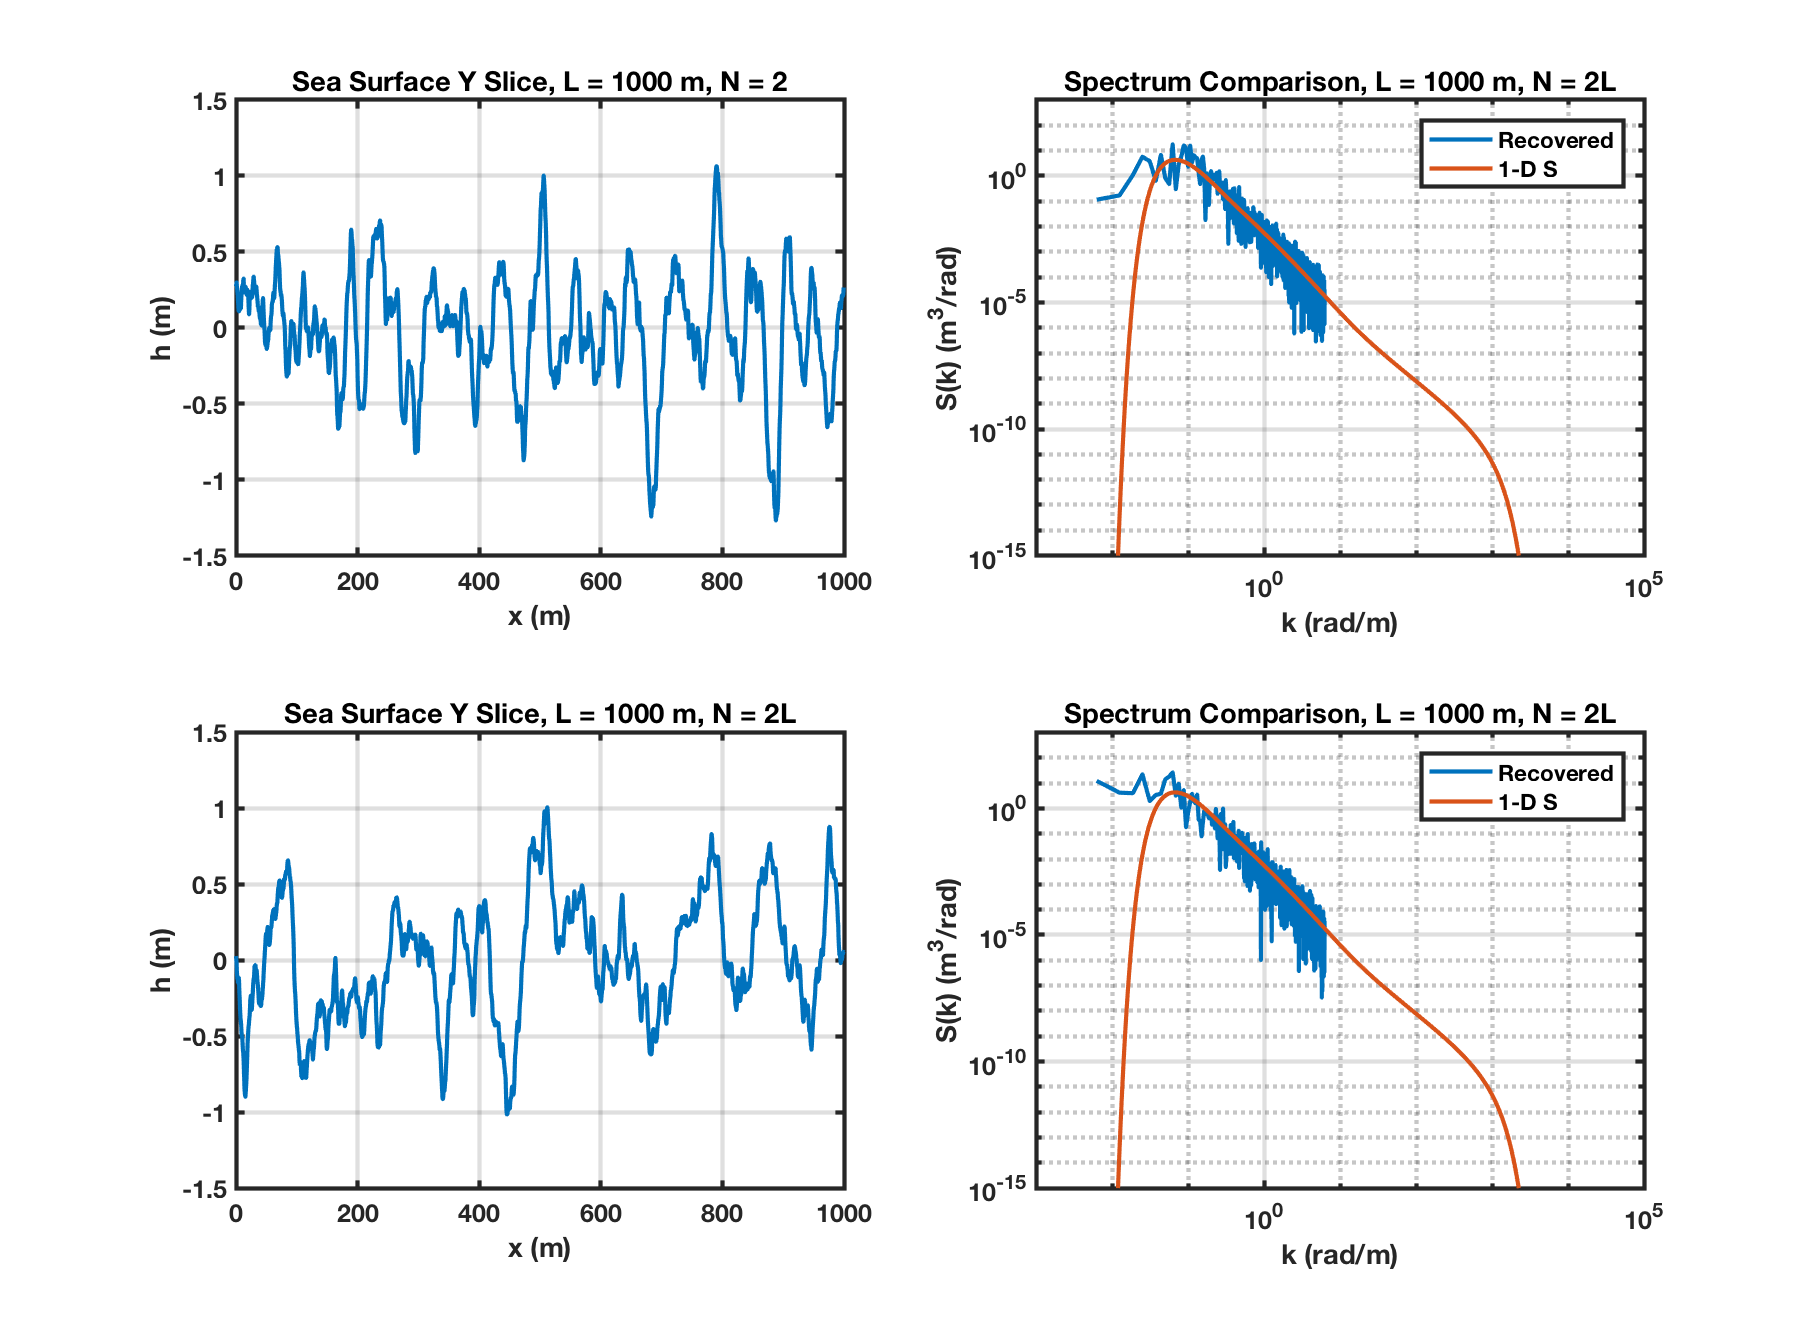
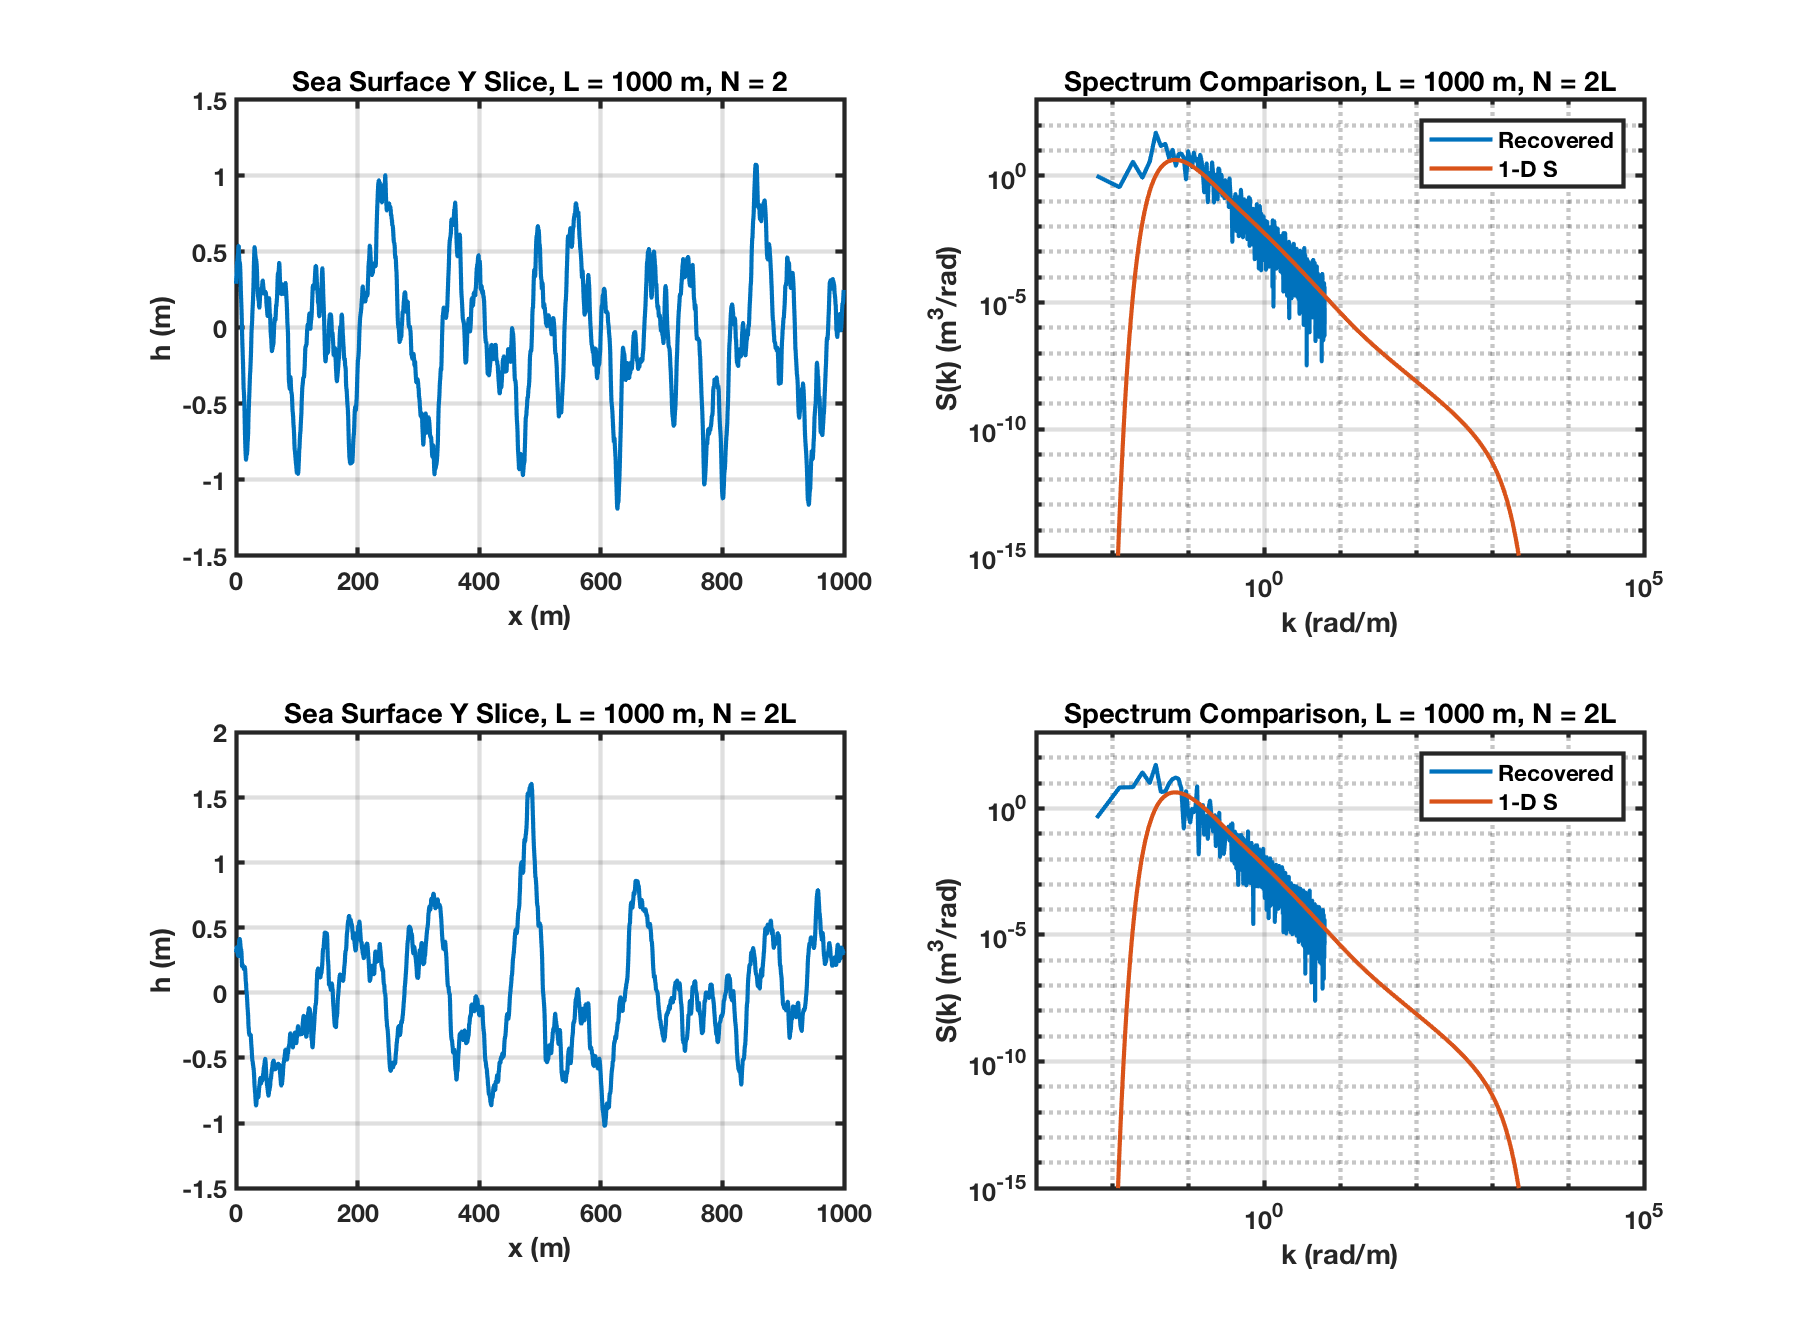
Updating references, adding additional 2D plots with 5 km and 7.5 km lengths

diff --git a/src/ocean_surface_generation.tex b/src/ocean_surface_generation.tex
@@ -4,7 +4,7 @@ To capture the physical behavior of electromagnetic waves reflecting off the sur
 \section {Waves in the Ocean}
 Ocean waves are primarily driven by wind and start when turbulence creates capillary or surface waves with small wavelengths (on the order of a few centimeters). As the wind continues to blow, it increases both the amplitude and the wavelength of the waves until they start to interact. These interactions continue to increase the wavelength and phase speed of the waves until they are traveling faster than the wind, at which point the sea is deemed fully developed. As a sea develops, energy will transfer from higher frequencies to lower frequencies which means the power spectrum will be different for a younger sea than a mature one.
 
-Before discussing the statistical properties of ocean waves, it is useful to review some standard nomenclature. Fetch is the length over which the wind can be considered constant, and a longer fetch generally means higher waves. Significant wave height is the mean wave height of the highest third of the waves. It is represented in the literature as $H_{1/3}$ and is equal to 4 times the standard deviation of the wave height, $H_{1/3} = 4\sigma_h$. Wave height generally refers to the mean difference between successive peaks and troughs (twice the amplitude).
+Before discussing the statistical properties of ocean waves, it is useful to review some standard nomenclature. Fetch is the length over which the wind can be considered constant, and a longer fetch generally means higher waves. Significant wave height is the mean wave height of the highest third of the waves. It is represented in the literature as $H_{1/3}$ and is equal to 4 times the standard deviation of the wave height, $H_{1/3} = 4\sigma_h$. Wave height generally refers to the mean difference between successive peaks and troughs (twice the amplitude) \cite{nathanson_radar}.
 
 \section{Ocean Wave Power Spectra}  \label{os_sec:power_spectra}
 Many methods have been proposed to statistically describe the behavior of ocean waves. These range from the simplest sea state representations with a very coarse binning of wind speed and sea height variations to mathematically complex multi-parameter power spectra.
@@ -12,7 +12,7 @@ Many methods have been proposed to statistically describe the behavior of ocean 
 \subsection {Sea State}
 The modern concept of sea state is a combination of the Beaufort wind scale and the Douglas sea scale. The Beaufort wind scale was developed in the early 1800s by sir Francis Beaufort and the Douglas sea scale was developed in the 1920s by H.P Douglas, both of the Royal Navy \cite{uk_met_fact_sheet6}. The Beaufort wind scale measures force vs. wind speed in 12 bins from "Calm" to "Hurricane" and was extended in 1944 to add scales up to 17. In 1960, it was further extended to add probable wave heights. 
 
-The Douglas sea scale on the other hand measures sea height in 9 bins from "Calm (glossy)" to "Phenomenal". The Word Meterological Organization (WMO) has adopted the Douglas sea scale as a standard \cite{wmo_code} and we can compare this to the Beaufort wind scale to add the dependency on wind speed as shown in Table \ref{os_tab:0}. There are no true standards when working with sea states, so care must be taken when comparing results between research groups.
+The Douglas sea scale on the other hand measures sea height in 9 bins from "Calm (glossy)" to "Phenomenal". The World Meterological Organization (WMO) has adopted the Douglas sea scale as a standard \cite{wmo_code} and we can compare this to the Beaufort wind scale to add the dependency on wind speed as shown in Table \ref{os_tab:0}. There are no true standards when working with sea states, so care must be taken when comparing results between research groups.
 
 \begin{table}[H]
   \begin{center}
@@ -434,10 +434,11 @@ Figure \ref{os_fig:7aa} shows another example realization, this time for $L$ = 1
 \section{Generation of Sea Surface Realizations in 2-Dimensions}
 We will generally follow Section \ref{os_sec:1d} to generate 2-dimensional surfaces but we now have a wave vector $\mathbf{k} = k_x\hat{x} + k_y\hat{y}$ instead of a scalar wave number. In this case we will have matrices and the number of points will go as $N^2$. We still have the constraint that the frequency domain representation should exhibit Hermitian symmetry, so $V(n,m) = V^*(N-n,N-m)$. The special cases at the elements $k = 0$ and $k = \frac{N}{2}$ now turn into special cases for the vectors $k_x = 0$, $k_x = \frac{N}{2}$, $k_y = 0$, and $k_y = \frac{N}{2}$. 
 
-The idea of Hermitian symmetry is less intuitive for 2-dimensions. Figure \ref{os_fig:7dd} shows the concept for an 8 x 8 matrix in terms of $(k_x, k_y)$ pairs. The 4 white blocks at $(k_x=0, k_y=0)$, $(k_x=4\Delta k, k_y=0)$, $(k_x=0, k_y=4\Delta k)$, and $(k_x=4\Delta k), k_y=4\Delta k))$ have no opposing frequencies and must be purely real. The 4 vectors where $k_x = 0$, $k_x = 4\Delta k$, $k_y = 0$, and $k_y = 4\Delta k$ are again special cases with no opposing frequencies in the 2nd dimension. These cases can be treated independently as if they were 1-dimensional sequences. This leaves a set of 4 sub-matrices of size $\frac{N}{2} - 1 $ x $\frac{N}{2} - 1$. It is sufficient to compute 2 of the sub-matrices directly and then use the Hermitian symmetry to generate the remaining 2.
+\subsection{Frequency Domain Representation}
+The idea of Hermitian symmetry is less intuitive for 2-dimensions than 1-dimension. We should be careful to explicitly state that the property of Hermitian symmetry does not imply that the matrix is Hermitian, as in general, $V \neq V^H$. Figure \ref{os_fig:7dd} shows the symmetry properties for an 8 x 8 matrix in terms of $(k_x, k_y)$ pairs. The 4 white blocks at $(k_x=0, k_y=0)$, $(k_x=4\Delta k, k_y=0)$, $(k_x=0, k_y=4\Delta k)$, and $(k_x=4\Delta k, k_y=4\Delta k)$ have no opposing frequencies and must be purely real. The 4 vectors where $k_x = 0$, $k_x = 4\Delta k$, $k_y = 0$, and $k_y = 4\Delta k$ are again special cases with no opposing frequencies in the 2nd dimension. These cases can be treated independently as if they were 1-dimensional sequences. This leaves a set of 4 sub-matrices of size $\frac{N}{2} - 1 \times \frac{N}{2} - 1$. It is sufficient to compute 2 of the sub-matrices directly ($\mathbf{A}$ and $\mathbf{B}$) and then use the Hermitian symmetry to generate the remaining 2 sub-matrices ($\mathbf{C}$ and $\mathbf{D}$).
 \begin{figure}[H]
   \begin{center}
-\includegraphics[width=6in]{../media/Ocean_Surface/2-d_hermitian_symmetry.png}
+\includegraphics[width=4in]{../media/Ocean_Surface/2-d_hermitian_symmetry.png}
   \end{center}
   \renewcommand{\baselinestretch}{1} \small\normalsize
   \begin{quote}
@@ -446,15 +447,40 @@ The idea of Hermitian symmetry is less intuitive for 2-dimensions. Figure \ref{o
 \end{figure}
 \renewcommand{\baselinestretch}{2} \small\normalsize
 
-\section{Example Realizations}
-Figure \ref{os_fig:8} shows a section of a generated 2D sea surface. The total surface was $1000 m^2$, only $100 m^2$ is shown here.
+The process to generate the frequency domain representation starts by using Equation \ref{os_eq:8} 4 times to cover the 4 special cases where $k_x = 0$, $k_x = \frac{N}{2}\Delta k$, $k_y = 0$, and $k_y = \frac{N}{2}\Delta k$. Each case should use independent sets of random variables $w$ and $u$ and the full 2-dimensional spectrum $Psi$ instead of $S$. We can then generate 4 $\frac{N}{2} - 1 \times \frac{N}{2} - 1$ matrices of random variables, $W_1$, $W_2$, $U_1$, and $U_2$ and compute $\mathbf{A}$ from Equation \ref{os_eq:10} and $\mathbf{B}$ from Equation \ref{os_eq:11}.
+
+\begin{equation}
+\label{os_eq:10}
+\mathbf{A}(m,n) = \frac{1}{4}\sqrt{\frac{1}{2}\Psi(m+1,n+1)\Delta k^2}\left[W_1(m,n) + iW_2(m,n) \right]
+\end{equation}
+
+\begin{equation}
+\label{os_eq:11}
+\mathbf{B}(m,n) = \frac{1}{4}\sqrt{\frac{1}{2}\Psi(m+\frac{N}{2} + 1,n+1)\Delta k^2}\left[W_1(m,n) + iW_2(m,n) \right]
+\end{equation}
+
+As with Equation \ref{os_eq:8}, we have an extra scale factor to account for the additional expectations that arise when extending the matrix. Because we are extending in both $x$ and $y$, we have a factor of $\frac{1}{4}$ instead of $\frac{1}{2}$.
+
+We can then compute $\mathbf{C}$ and $\mathbf{D}$ from symmetry:
+\begin{equation}
+\label{os_eq:12}
+\begin{gathered}
+\mathbf{C}(m,n) = \mathbf{A}\left(\frac{N}{2} - m, \frac{N}{2} - n \right) \\
+\mathbf{D}(m,n) = \mathbf{B}\left(\frac{N}{2} - m, \frac{N}{2} - n \right) \\
+\end{gathered}
+\end{equation}
+
+Once we have all the pieces, we can lay things down in the appropriate location in $V$.
+
+\subsection{Example Realizations}
+Figure \ref{os_fig:8} shows a generated 2D sea surface with $L$ = 1 km and $U_{10}$ = 10 m/s. The right hand plot shows an image of the entire 1000 square meter surface area and the left hand plot shows a 3D rendering of the 100 square meter patch outlined in the red box in the upper left hand corner of the left hand plot.
 \begin{figure}[H]
   \begin{center}
 \includegraphics[width=6in]{../media/Ocean_Surface/sea_surface_2d_surf.png}
   \end{center}
   \renewcommand{\baselinestretch}{1} \small\normalsize
   \begin{quote}
-    \caption[Generated 2D Sea Surface]{Generated 2D Sea Surface \label{os_fig:8}}
+    \caption[Generated 2D Sea Surface, $L$ = 1 km]{Generated 2D Sea Surface, $L$ = 1 km \label{os_fig:8}}
   \end{quote}
 \end{figure}
 \renewcommand{\baselinestretch}{2} \small\normalsize
@@ -466,7 +492,30 @@ Figure \ref{os_fig:10} shows slices along the $N/2$ element in both the $x$ and 
   \end{center}
   \renewcommand{\baselinestretch}{1} \small\normalsize
   \begin{quote}
-    \caption[X and Y Slices of 2D Generated Sea Surface]{X and Y Slices of 2D Generated Sea Surface\label{os_fig:10}}
+    \caption[X and Y Slices of 2D Generated Sea Surface, $L$ = 1 km]{X and Y Slices of 2D Generated Sea Surface, $L$ = 1 km\label{os_fig:10}}
+  \end{quote}
+\end{figure}
+\renewcommand{\baselinestretch}{2} \small\normalsize
+
+Figure \ref{os_fig:11} shows the generated sea surface for $L$ = 5 km and Figure \ref{os_fig:12} shows the generated sea surface for $L$ = 7.5 km.
+\begin{figure}[H]
+  \begin{center}
+\includegraphics[width=6in]{../media/Ocean_Surface/sea_surface_2d_surf_5000.png}
+  \end{center}
+  \renewcommand{\baselinestretch}{1} \small\normalsize
+  \begin{quote}
+    \caption[Generated 2D Sea Surface, $L$ = 5 km]{Generated 2D Sea Surface, $L$ = 5 km \label{os_fig:11}}
+  \end{quote}
+\end{figure}
+\renewcommand{\baselinestretch}{2} \small\normalsize
+
+\begin{figure}[H]
+  \begin{center}
+\includegraphics[width=6in]{../media/Ocean_Surface/sea_surface_2d_surf_7500.png}
+  \end{center}
+  \renewcommand{\baselinestretch}{1} \small\normalsize
+  \begin{quote}
+    \caption[Generated 2D Sea Surface, $L$ = 7.5 km]{Generated 2D Sea Surface, $L$ = 7.5 km \label{os_fig:12}}
   \end{quote}
 \end{figure}
 \renewcommand{\baselinestretch}{2} \small\normalsize

diff --git a/src/test_ocean_surface_generation.tex b/src/test_ocean_surface_generation.tex
@@ -1,8 +1,8 @@
 \documentclass[12pt]{../packages/thesis}  %12pt is larger than 11pt
 
 \usepackage{titlesec}
-   \titleformat{\chapter}
-      {\normalfont\large}{}{1em}{}
+\titleformat{\chapter}
+     {\normalfont\large}{}{1em}{}
 
 \usepackage[pdftex]{graphicx}
 \usepackage{mathrsfs,amsmath}
@@ -46,17 +46,16 @@
 
 \vspace{50pt}
 
-{\huge \bfseries Ocean Surface Generation\\[0.4 cm]}
+{\huge \bfseries Ocean Surface Modeling\\[0.4 cm]}
 
 
 \vspace{25pt}
 \large Ben Frazier \\
-\large IRST and Sensors Group, FPS/KVU \\
-\vspace{125pt}
+\large IRST and Sensors Group (FPS/KVU), JHU/APL \\
+\large Electrical and Computer Engineering, UMD \\
+\vspace{100pt}
 \large \today
 \end{center}
-
-
 
 \pagenumbering{arabic}
 \include{supertabular}

diff --git a/mfiles/generateSeaSurface2D.m b/mfiles/generateSeaSurface2D.m
@@ -48,8 +48,8 @@ for u = 1:N/2-1
         va = v+1;
         ub = u + 1;
         vb = v + N/2 + 1;
-        Va(u,v) = 1/2*sqrt(S(ua,va)/2*dk^2)*(W1(u,v) + 1i*W2(u,v));
-        Vb(u,v) = 1/2*sqrt(S(ub,vb)/2*dk^2)*(W3(u,v) + 1i*W4(u,v));
+        Va(u,v) = 1/4*sqrt(S(ua,va)/2*dk^2)*(W1(u,v) + 1i*W2(u,v));
+        Vb(u,v) = 1/4*sqrt(S(ub,vb)/2*dk^2)*(W3(u,v) + 1i*W4(u,v));
     end
 end
 
@@ -117,6 +117,6 @@ V(N/2+1,:) = Vy2;
 V(:,N/2+1) = Vx2';
 
 %scale by 1/2 to capture 2-D instead of only 1-D
-V = 1/2*V;
+% V = 1/2*V;
 
 h = ifft2(V)*length(V)^2;

diff --git a/mfiles/generateOceanSurface2DTestPlots.m b/mfiles/generateOceanSurface2DTestPlots.m
@@ -94,6 +94,7 @@ set(gca,'FontWeight','bold')
 grid on
 tstring = sprintf('Sea Surface Y Slice, L = %d m, N = %d',L,N/L);
 title(tstring);
+xlim([0 1000])
 
 subplot(2,2,2)
 loglog(kx(N/2+1:end),Pxx1(1:N/2),'LineWidth',2);
@@ -122,6 +123,7 @@ set(gca,'FontWeight','bold')
 grid on
 tstring = sprintf('Sea Surface Y Slice, L = %d m, N = %dL',L,N/L);
 title(tstring);
+xlim([0 1000])
 
 subplot(2,2,4)
 loglog(kx(N/2+1:end),Pxx2(1:N/2),'LineWidth',2);

diff --git a/src/Abbreviations.tex b/src/Abbreviations.tex
@@ -15,6 +15,10 @@
 
 \begin{supertabular}{ll}
 FFT & Fast Fourier Transform \\
-\\
 JHU/APL & Johns Hopkins University Applied Physics Laboratory \\
+JONSWAP & Joint North Sea Wave Project\\
+OSG & Ocean Surface Generator \\
+PM & Pierson-Moskowitz \\
+TEMPER & Tropospheric Electromagnetic Parabolic Equation Routine \\
+WMO & World Meterological Organization \\
 \end{supertabular}
